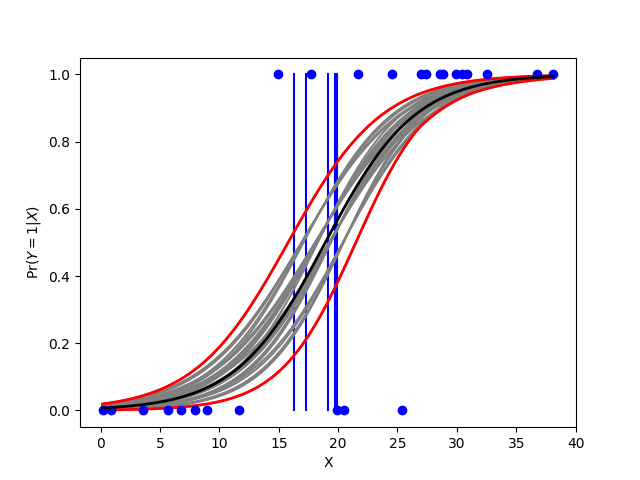
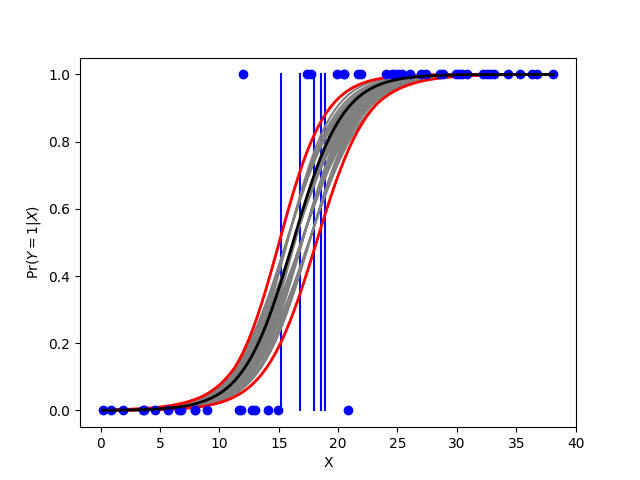
01FEB.02

Changed region(s): [[0.1562, 0.125, 0.875, 0.875], [0.375, 0.125, 0.4375, 0.1875], [0.625, 0.8438, 0.6562, 0.875]]

diff --git a/ex1UC.py b/ex1UC.py
@@ -1,8 +1,10 @@
 import numpy as np
 import pandas as pd
 from matplotlib import pyplot as plt
+from mpl_toolkits import mplot3d
+
 from sklearn.linear_model import LogisticRegression
-from sklearn import metrics as skm
+from sklearn.metrics import roc_auc_score
 import itertools as it
 from tqdm import tqdm
 import pba
@@ -23,7 +25,7 @@ def generate_results(data):
 np.random.seed(10)
 
 # Params
-many = 25
+many = 50
 dim = 1
 few = 5
 some = 100
@@ -75,6 +77,7 @@ lY = base.predict_proba(lX.reshape(-1, 1))[:,1]
 plt.xlabel('X')
 plt.ylabel('$\Pr(Y=1|X)$')
 plt.scatter(data,results,color='blue',zorder=10)
+# plt.scatter(test_data,test_results,color='green',zorder=10)
 plt.plot(lX,lY,color='k',zorder=10,lw=2)
 plt.savefig('../paper/figs/ex1.png')
 plt.savefig('figs/ex1.png')
@@ -99,7 +102,6 @@ plt.plot(lX,lYmin,color='red',lw=2)
 
 plt.savefig('../paper/figs/ex1_UC.png')
 plt.savefig('figs/ex1_UC.png')
-
 
 plt.clf()
 
@@ -148,8 +150,8 @@ with open('ex1-cm.out','w') as f:
 s,fpr = ROC(model = base, data = test_data, results = test_results)
 s_i, fpr_i, s_t, fpr_t = UQ_ROC(models = uq_models, data = test_data, results = test_results)
 
-plt.plot([0,1],[0,1],'k:',label = '$s = 1-t$')
-plt.plot([0,0,1],[0,1,1],'r:',label = '$s = 1-t$')
+# plt.plot([0,0,1],[0,1,1],'r:',label = 'Perfect Classifier')
+plt.plot([0,1],[0,1],'k:',label = 'Random Classifer')
 plt.xlabel('$1-t$')
 plt.ylabel('$s$')
 plt.step(fpr,s,'k', label = 'Base')
@@ -162,27 +164,56 @@ X = np.linspace(0,1,steps)
 Ymin = steps*[2]
 Ymax = steps*[-1]
 
-for i, x in enumerate(X):
+for i, x in tqdm(enumerate(X)):
     for k,j in zip(s_i,fpr_i):
-        plt.plot([j.Left,j.Left,j.Right,j.Right,j.Left],[k.Left,k.Right,k.Right,k.Left,k.Left],c= 'grey')
+
         if j.straddles(x,endpoints = True):
             Ymin[i] = min((Ymin[i],k.Left))
             Ymax[i] = max((Ymax[i],k.Right))
-            
-plt.step([x for i,x in enumerate(X) if Ymax[i] != -1],[y for i,y in enumerate(Ymax) if Ymax[i] != -1],'r',label = 'Upper Bound')
-plt.step([x for i,x in enumerate(X) if Ymin[i] != 2],[y for i,y in enumerate(Ymin) if Ymin[i] != 2],'b',label = 'Lower Bound')
 
-plt.step(fpr_t,s_t,'m', label = 'Dropped Values')
+Xmax = [0]+[x for i,x in enumerate(X) if Ymax[i] != -1]+[1]
+Xmin = [0]+[x for i,x in enumerate(X) if Ymin[i] != 2]+[1]
+Ymax = [0]+[y for i,y in enumerate(Ymax) if Ymax[i] != -1]+[1]
+Ymin = [0]+[y for i,y in enumerate(Ymin) if Ymin[i] != 2]+[1]
+
+plt.step(Xmax,Ymax,'r',label = 'Upper Bound',where = 'pre')
+plt.step(Xmin,Ymin,'b',label = 'Lower Bound',where = 'post')
+
+plt.step(fpr_t,s_t,'m', label = 'Not Predicting')
 plt.legend()
 
 # tikzplotlib.save('../paper/figs/ex1_UQ_ROC.png')
-plt.savefig('figs/ex1_UQ_ROC.png')
-plt.savefig('../paper/figs/ex1_UQ_ROC.png')
+plt.savefig('figs/ex1_UC_ROC.png')
+plt.savefig('../paper/figs/ex1_UC_ROC.png')
 
 # plt.clf()
 
 with open('ex1-auc.out','w') as f:
     print('NO UNCERTAINTY: %.4f' %auc(s,fpr), file = f)
-    print('LOWER BOUND: %.4f' %auc([x for i,x in enumerate(X) if Ymin[i] != 2],[y for i,y in enumerate(Ymin) if Ymin[i] != 2]), file = f)
-    print('UPPER BOUND: %.4f' %auc([x for i,x in enumerate(X) if Ymax[i] != 2],[y for i,y in enumerate(Ymax) if Ymax[i] != 2]), file = f)
+    # print('NO UNCERTAINTY: %.4f' %roc_auc_score(base.predict_proba(test_data)[:,1],test_results), file = f)
+    print('LOWER BOUND: %.4f' %auc(Ymin,Xmin), file = f)
+    print('UPPER BOUND: %.4f' %auc(Ymax,Xmax), file = f)
     print('THROW: %.4f' %auc(s_t,fpr_t), file = f)
+
+
+
+######
+
+fig = plt.figure()
+
+ax = plt.axes(projection='3d',elev = 45,azim = -45,proj_type = 'ortho')
+ax.set_xlabel('$1-t$')
+ax.set_ylabel('$s$')
+# ax.set_zlabel('$1-\sigma,1-\\tau$')
+
+
+s, fpr, Sigma, Tau, Nu = UQ_ROC_alt(uq_models, test_data, test_results)
+
+ax.plot3D(fpr,s,Tau,'g',label = '$1-\\tau$')
+ax.plot3D(fpr,s,Sigma,'r',label = '$1-\\sigma$')
+ax.plot3D(fpr,s,Nu,'k',label = '$1-\\nu$')
+
+ax.legend()
+
+plt.savefig('figs/ex1_ROC_3d.png')
+plt.savefig('../paper/figs/ex1_UC_ROC_3d.png')

diff --git a/redwine.py b/redwine.py
@@ -87,19 +87,18 @@ with open('redwine-cm.out','w') as f:
     print('Specificity = %.3f' %(ttt),file = f)
 
 
-## ROC CURVE
-
 ### ROC CURVE
 s,fpr = ROC(model = base, data = test_data, results = test_results)
 s_i, fpr_i, s_t, fpr_t = UQ_ROC(models = uq_models, data = test_data, results = test_results)
 
-plt.plot([0,1],[0,1],'k:',label = '$s = 1-t$')
-plt.plot([0,0,1],[0,1,1],'r:',label = '$s = 1-t$')
+
+# plt.plot([0,0,1],[0,1,1],'r:',label = 'Perfect Classifier')
+plt.plot([0,1],[0,1],'k:',label = 'Random Classifer')
 plt.xlabel('$1-t$')
 plt.ylabel('$s$')
 plt.step(fpr,s,'k', label = 'Base')
-plt.savefig('figs/ex1_ROC.png')
-plt.savefig('../paper/figs/ex1_ROC.png')
+plt.savefig('figs/redwine_ROC.png')
+plt.savefig('../paper/figs/redwine_ROC.png')
 
 
 steps = 1001
@@ -107,39 +106,58 @@ X = np.linspace(0,1,steps)
 Ymin = steps*[2]
 Ymax = steps*[-1]
 
-for i, x in enumerate(X):
+for i, x in tqdm(enumerate(X)):
     for k,j in zip(s_i,fpr_i):
+
         if j.straddles(x,endpoints = True):
             Ymin[i] = min((Ymin[i],k.Left))
             Ymax[i] = max((Ymax[i],k.Right))
-            
-plt.step([x for i,x in enumerate(X) if Ymax[i] != -1],[y for i,y in enumerate(Ymax) if Ymax[i] != -1],'r',label = 'Upper Bound')
-plt.step([x for i,x in enumerate(X) if Ymin[i] != 2],[y for i,y in enumerate(Ymin) if Ymin[i] != 2],'b',label = 'Lower Bound')
 
-plt.step(fpr_t,s_t,'m', label = 'Dropped Values')
+Xmax = [0]+[x for i,x in enumerate(X) if Ymax[i] != -1]+[1]
+Xmin = [0]+[x for i,x in enumerate(X) if Ymin[i] != 2]+[1]
+Ymax = [0]+[y for i,y in enumerate(Ymax) if Ymax[i] != -1]+[1]
+Ymin = [0]+[y for i,y in enumerate(Ymin) if Ymin[i] != 2]+[1]
+
+plt.step(Xmax,Ymax,'r',label = 'Upper Bound',where = 'pre')
+plt.step(Xmin,Ymin,'b',label = 'Lower Bound',where = 'post')
+
+
+plt.step(fpr_t,s_t,'m', label = 'Not Predicting')
 plt.legend()
-# # tikzplotlib.save('../paper/figs/redwine_UQ_ROC.png')
-plt.savefig('figs/redwine_UQ_ROC.png')
-plt.savefig('../paper/figs/redwine_UQ_ROC.png')
 
+# tikzplotlib.save('../paper/figs/redwine_UQ_ROC.png')
+plt.savefig('figs/redwine_UC_ROC.png')
+plt.savefig('../paper/figs/redwine_UC_ROC.png')
+
+# plt.clf()
 
 with open('redwine-auc.out','w') as f:
     print('NO UNCERTAINTY: %.4f' %auc(s,fpr), file = f)
-    print('LOWER BOUND: %.4f' %auc([x for i,x in enumerate(X) if Ymin[i] != 2],[y for i,y in enumerate(Ymin) if Ymin[i] != 2]), file = f)
-    print('UPPER BOUND: %.4f' %auc([x for i,x in enumerate(X) if Ymax[i] != 2],[y for i,y in enumerate(Ymax) if Ymax[i] != 2]), file = f)
+    # print('NO UNCERTAINTY: %.4f' %roc_auc_score(base.predict_proba(test_data)[:,1],test_results), file = f)
+    print('LOWER BOUND: %.4f' %auc(Ymin,Xmin), file = f)
+    print('UPPER BOUND: %.4f' %auc(Ymax,Xmax), file = f)
     print('THROW: %.4f' %auc(s_t,fpr_t), file = f)
-    
-plt.clf()
 
-## PLOTS
 
-l = len(train_data.columns)
-colors = ['g' if d else 'r' for c,d in train_results.iteritems()]
-for i,c in enumerate(train_data.columns):
-    plt.subplot(4,3,i+1)
-    plt.scatter(train_data[c],train_results,marker = 'x',c=colors)
-    # plt.scatter(uq_data[j],uq_data[k],c='k')
-        
-plt.savefig('figs/redwine.png')
-plt.savefig('../paper/figs/redwine.png')
+######
+from mpl_toolkits import mplot3d
 
+fig = plt.figure()
+
+ax = plt.axes(projection='3d',elev = 45,azim = -45,proj_type = 'ortho')
+ax.set_xlabel('$1-t$')
+ax.set_ylabel('$s$')
+# ax.set_zlabel('$1-\sigma,1-\\tau$')
+
+
+s, fpr, Sigma, Tau, Nu = UQ_ROC_alt(uq_models, test_data, test_results)
+
+ax.plot3D(fpr,s,Tau,'g',label = '$1-\\tau$')
+ax.plot3D(fpr,s,Sigma,'r',label = '$1-\\sigma$')
+ax.plot3D(fpr,s,Nu,'k',label = '$1-\\nu$')
+
+
+ax.legend()
+
+plt.savefig('figs/redwine_ROC_3d.png')
+plt.savefig('../paper/figs/redwine_ROC_3d.png')

diff --git a/LRF.py b/LRF.py
@@ -70,7 +70,7 @@ def ROC(model = None, predictions = None, data = None, results = None, uq = Fals
     if predictions is None:
         predictions = model.predict_proba(data)[:,1]
     
-    for p in np.linspace(0,1,101):
+    for p in tqdm(np.linspace(0,1,1001)):
         a = 0
         b = 0
         c = 0
@@ -190,12 +190,84 @@ def split_data(features, results, test_frac = 0.5, uq_frac = 0.05, seed=random.r
 
 def auc(s,fpr):
     
-    a = 0
-    for i in range(1,len(s)):
-        a += 0.5*(s[i]+s[i-1])*(fpr[i-1]-fpr[i])
+    fpr,s = zip(*sorted(zip(fpr,s)))
         
-    return a
+    return np.trapz(s,fpr)
+
+def UQ_ROC_alt(models, data, results):
+   
+    s = []
+    fpr = []
     
+    Sigma = []
+    Tau = []
+    Nu = []
+    
+    
+    probabilities = []
+    for d in tqdm(data.index):
+        l = [m.predict_proba(data.loc[d].to_numpy().reshape(1, -1))[:,1] for k,m in models.items()]
+        probabilities.append((min(l),max(l)))
+    
+    
+    for p in tqdm(np.linspace(0,1,1001)):
+        a = 0
+        b = 0
+        c = 0
+        d = 0
+        
+        sigma = 0
+        tau = 0
+        nu = 0
+        
+
+        for prob, result in zip(probabilities,results):
+
+            if (prob[0] >= p) and (prob[1] >= p):
+                x = 1
+            elif (prob[0] < p) and (prob[1] < p):
+                x = 0
+            else:
+                x = 0.5
+                nu += 1
+                
+            if x == 0.5:
+                if result:
+                    sigma += 1
+                else:
+                    tau += 1
+            elif x:
+                if result:
+                    # true positive
+                    a += 1
+                else:
+                    # false positive
+                    b+= 1
+            else: 
+                if result:
+                    # false negative
+                    c += 1
+                else:
+                    # true negative
+                    d += 1
+                    
+        if a == 0:
+            s.append(0)
+        else:
+            s.append(1/(1+(c/a)))
+        
+        if b == 0:
+            fpr.append(0)
+        else:
+            fpr.append(1/(1+(d/b)))
+            
+        Sigma.append(sigma/sum(results))
+        Tau.append(tau/(len(results) - sum(results)))
+        Nu.append(nu/len(results))
+            
+        
+    return s, fpr, Sigma, Tau, Nu
+   
     
 __all__ = [
     'generate_confusion_matrix',
@@ -203,5 +275,6 @@ __all__ = [
     'ROC',
     'UQ_ROC',
     'split_data',
-    'auc'
+    'auc',
+    'UQ_ROC_alt'
 ]
